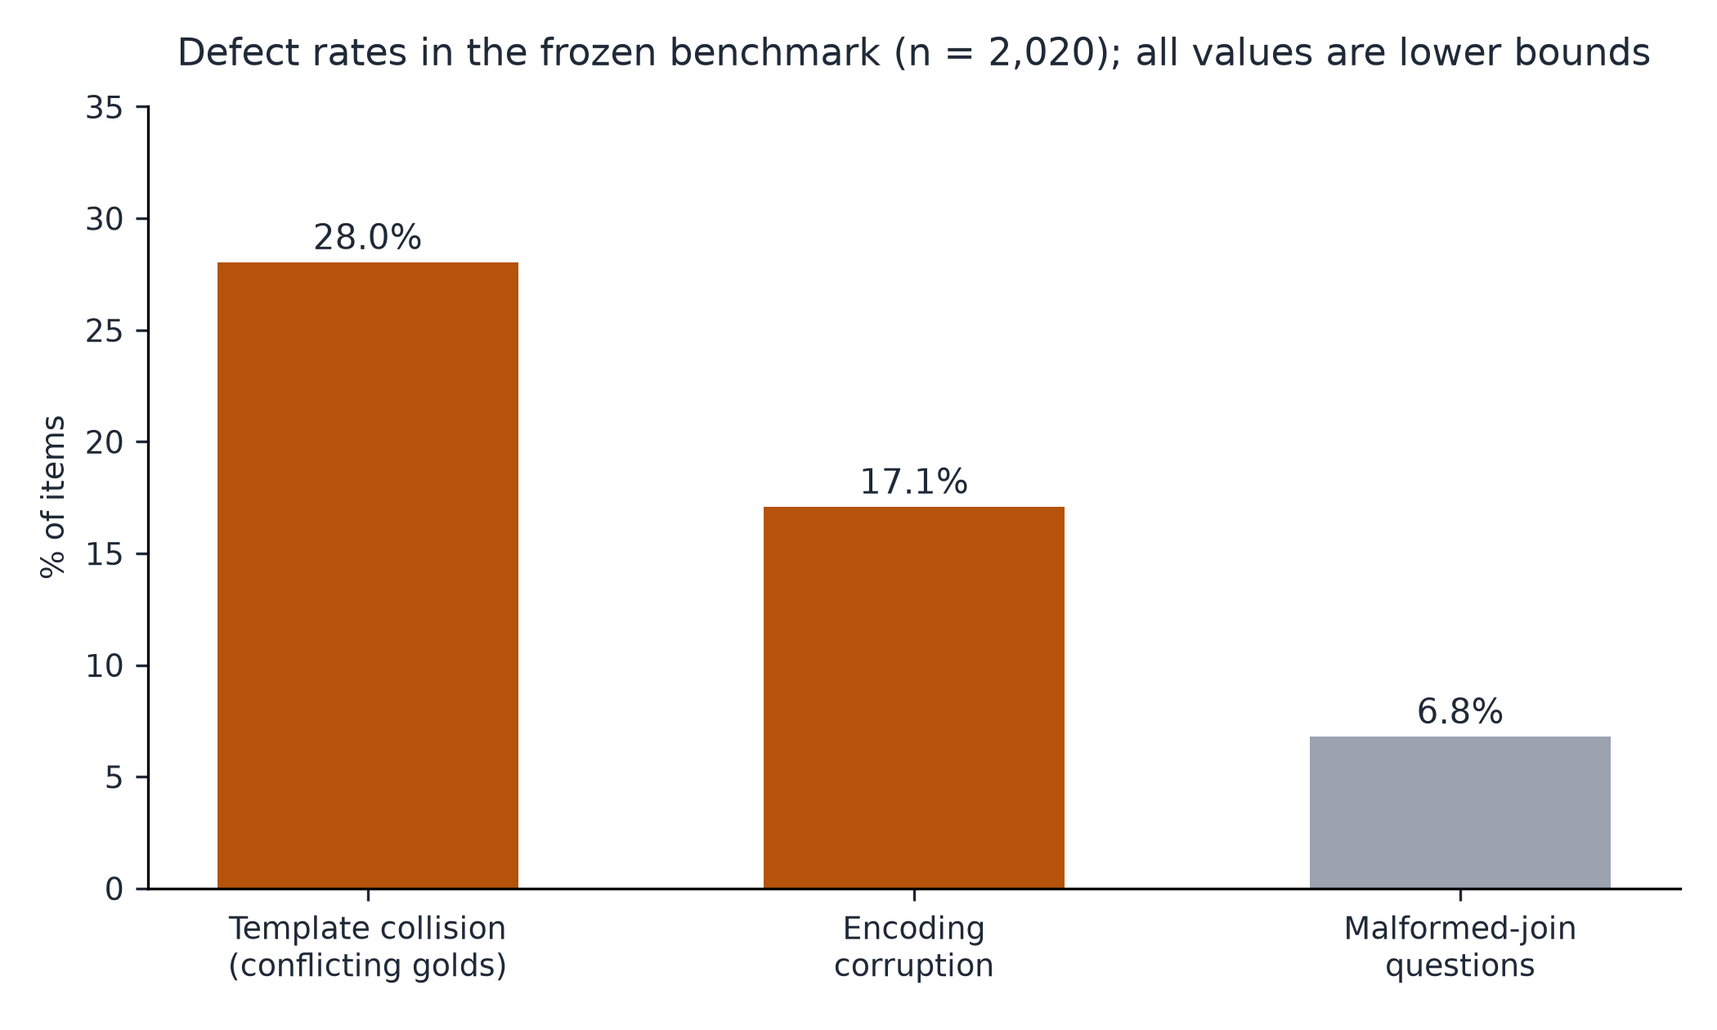
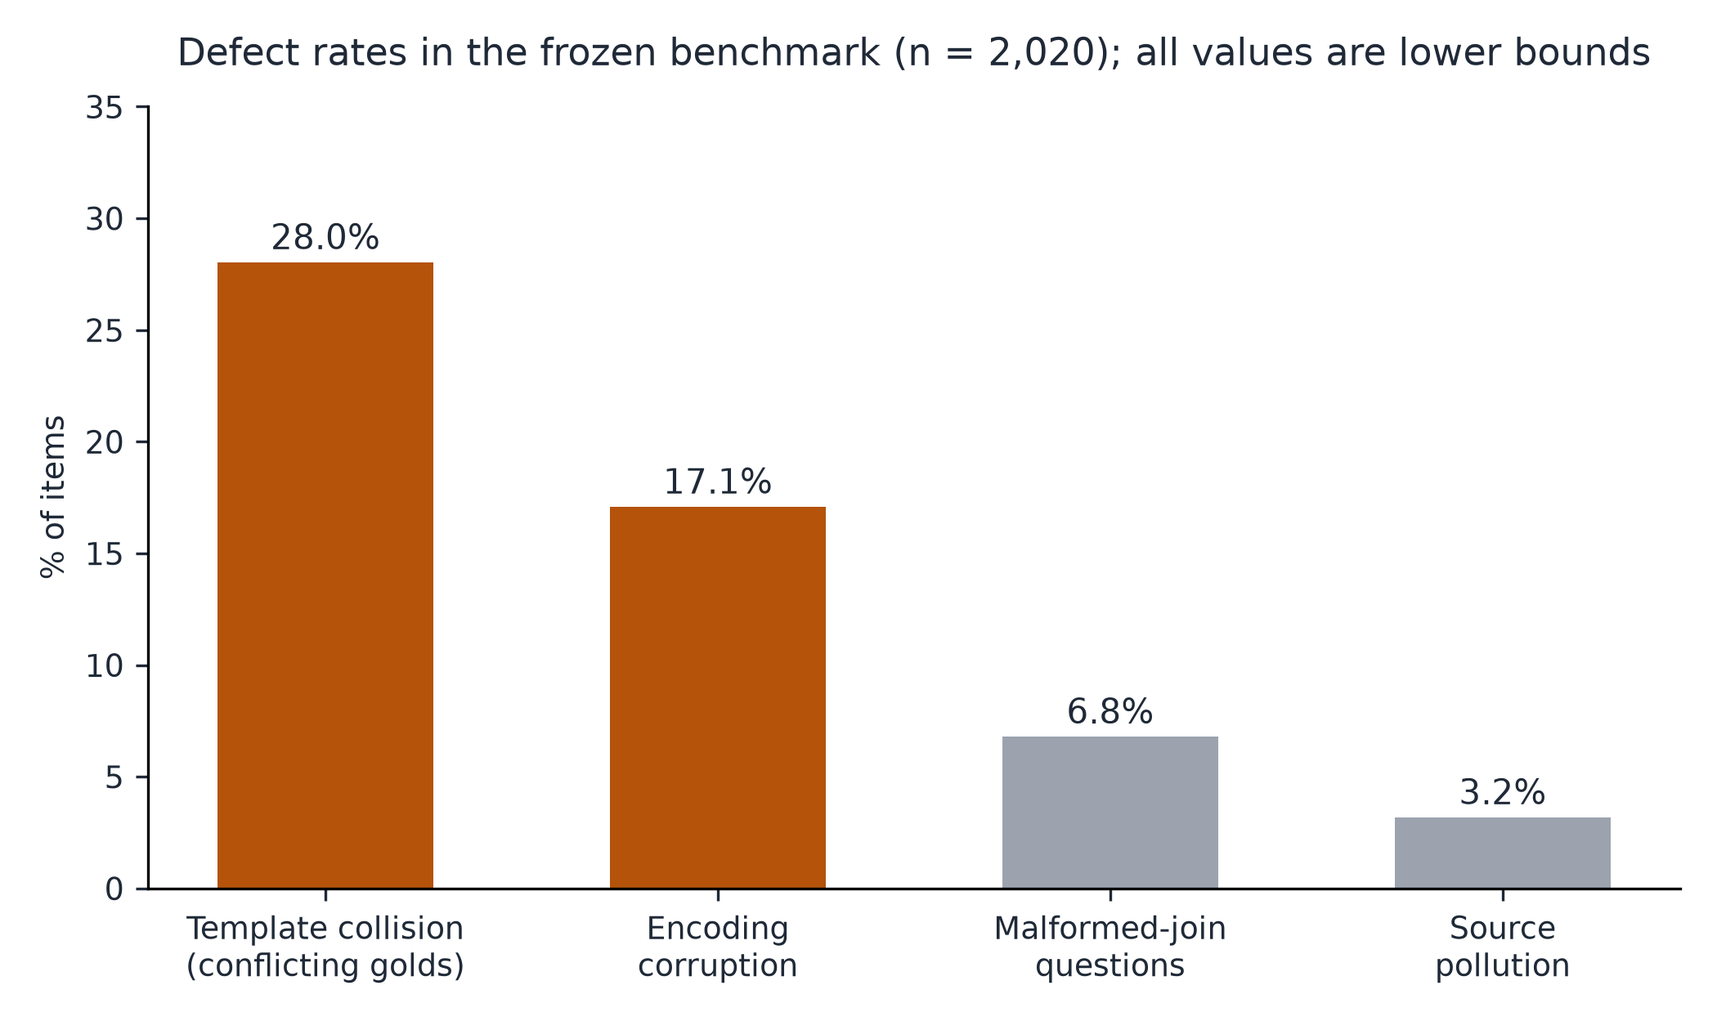
Cold read after the restatement: ten fixes, plus 13->7 ripple
Full straight-through read, owed because the last two rewrites each broke
something downstream that only a straight read caught. This one broke three.

Substantive:
- ABSTRACT CONTRADICTED ITSELF. It still called 566 items "unscoreable by
  construction" two sentences before reporting that three of four systems score
  HIGHER on the worst-collided group. The old claim survived the restatement in
  the one place a reader looks first.
- The self-referential paragraph called the caption defect "the relational
  defect of class 4" -- wrong twice over: class 4 is source pollution, not
  dangling references, and under the revised Conclusion class 4 is not
  relational. Rewritten around the accurate parallel: source validation
  (confirming cited artifacts resolve) is the check the benchmark's pipeline ran
  and passed, and the check nobody ran over the manuscript.
- "The audit is a single read-only script" was false once collision_effect.py
  existed, and Table 2's numbers come from it.

13 -> 7 ripple: DATA_QUALITY.md still reported 13 polluted documents. Now 7,
with the residue explained -- a broader pattern returns 17, most of the extra
hits are legitimate health content ("Halloween safety tips"), and the borderline
cases are agency index pages. The gap is reported as informative in itself:
automated auditing stops where the inclusion criterion stops being mechanically
decidable, and "consumer-facing health guidance" is not.
[…]

diff --git a/scripts/audit_data_quality.py b/scripts/audit_data_quality.py
@@ -19,6 +19,27 @@ PAIRS = Path("data/benchmark_v1/cross_language_pairs.json")
 # Signatures of UTF-8 text decoded as Latin-1 and re-encoded (double encoding).
 MOJIBAKE = re.compile(r"Ã|Â|â€|ã©|ã³|ã±|Ã¡|Ã©|Ã|Ã³|Ãº|Ã±|â¿|ã¿", re.I)
 
+# Administrative path patterns for source-pollution detection. Deliberately
+# strict: a looser pattern also matches legitimate health content whose title
+# happens to contain "contact", "help", or "terms".
+ADMIN = re.compile(
+    r"/(privacy|sitemap|contact|accessibility|disclaimer|policies|"
+    r"nondiscrimination|foia|vulnerability-disclosure|about-this-site)", re.I
+)
+
+
+def polluted(items):
+    """(administrative source URLs, number of items derived from them)."""
+    urls = sorted({
+        src["url"] for it in items for src in (it.get("source_documents") or [])
+        if ADMIN.search(src.get("url", ""))
+    })
+    n = sum(
+        1 for it in items
+        if any(ADMIN.search(s.get("url", "")) for s in (it.get("source_documents") or []))
+    )
+    return urls, n
+
 
 def load():
     return [json.loads(line) for line in open(ITEMS, encoding="utf-8")]
@@ -77,20 +98,12 @@ def main() -> None:
     print(f"   pairs with en_item_id/es_item_id swapped: {swapped} ({100*swapped/len(pairs):.0f}%)")
     print(f"   pairs with semantic_equivalence_verified == false: {unverified}")
 
-    ADMIN = re.compile(r"/(privacy|sitemap|contact|accessibility|disclaimer|policies|"
-                       r"nondiscrimination|foia|vulnerability-disclosure|about-this-site)", re.I)
-    polluted = sorted({
-        src["url"] for it in items for src in (it.get("source_documents") or [])
-        if ADMIN.search(src.get("url", ""))
-    })
-    poll_items = sum(
-        1 for it in items
-        if any(ADMIN.search(s.get("url", "")) for s in (it.get("source_documents") or []))
-    )
+    polluted_urls, poll_items = polluted(items)
+
     print("\n5. SOURCE POLLUTION")
-    print(f"   source documents matching administrative-path patterns: {len(polluted)}")
+    print(f"   source documents matching administrative-path patterns: {len(polluted_urls)}")
     print(f"   items derived from them: {poll_items}")
-    for u in polluted[:4]:
+    for u in polluted_urls[:4]:
         print(f"     {u[:88]}")
 
     def clean(it):

diff --git a/scripts/make_audit_figures.py b/scripts/make_audit_figures.py
@@ -17,7 +17,7 @@ import matplotlib
 matplotlib.use("Agg")
 import matplotlib.pyplot as plt  # noqa: E402
 
-from scripts.audit_data_quality import MOJIBAKE, item_texts, load  # noqa: E402
+from scripts.audit_data_quality import MOJIBAKE, item_texts, load, polluted  # noqa: E402
 
 OUT = Path("paper/figures")
 INK = "#1f2937"
@@ -55,6 +55,7 @@ def main() -> None:
     # --- shared computations (identical to the audit script) ---
     mojibake = [i for i in items if any(MOJIBAKE.search(t or "") for t in item_texts(i))]
     garbled = [i for i in items if i["question"].rstrip().endswith(":?") or "??" in i["question"]]
+    _, poll_items = polluted(items)
     byq = collections.defaultdict(list)
     for i in items:
         byq[i["question"].strip()].append(i)
@@ -84,10 +85,11 @@ def main() -> None:
     plt.close(fig)
 
     # --- Fig 2: defect rates by class ---
-    labels = ["Template collision\n(conflicting golds)", "Encoding\ncorruption", "Malformed-join\nquestions"]
-    vals = [100 * n_conf / n, 100 * len(mojibake) / n, 100 * len(garbled) / n]
+    labels = ["Template collision\n(conflicting golds)", "Encoding\ncorruption",
+              "Malformed-join\nquestions", "Source\npollution"]
+    vals = [100 * n_conf / n, 100 * len(mojibake) / n, 100 * len(garbled) / n, 100 * poll_items / n]
     fig, ax = plt.subplots(figsize=(7.0, 4.2))
-    bars = ax.bar(labels, vals, color=[ACCENT, ACCENT, MUTED], width=0.55)
+    bars = ax.bar(labels, vals, color=[ACCENT, ACCENT, MUTED, MUTED], width=0.55)
     for b, v in zip(bars, vals):
         ax.text(b.get_x() + b.get_width() / 2, v + 0.6, f"{v:.1f}%", ha="center", fontsize=10, color=INK)
     ax.set_ylim(0, max(vals) * 1.25)

diff --git a/paper/manuscript.md b/paper/manuscript.md
@@ -10,7 +10,7 @@
 
 ## Abstract
 
-Automated generation has made it inexpensive to build evaluation benchmarks at scale, but validation practice has not kept pace with generation practice. We report a post-freeze audit of US-HealthBench, a 2,020-item bilingual benchmark of consumer-facing U.S. public-health guidance that its authoring pipeline validated as 2,020/2,020 passing. That validation checked schema conformance and source existence. It never checked whether the items were semantically well-formed, and substantially they were not. We characterize four defect classes. Template collision: 212 question strings repeat across 664 items, and 174 of those repeats carry incompatible gold answers, leaving 566 items (28.0%) unscoreable by construction. Encoding corruption: 345 items (17.1%) overall, concentrated at 74.9% of the Spanish subset. Splice contamination: localized templates filled with fragments from another language or from page boilerplate. Source pollution: administrative pages entering a corpus filtered for health guidance. We argue these are not merely noise. Re-scoring under two matching rules shows that collision moves scores in a direction set by the scorer rather than by the defect: the shipped grader depresses scores across all 566 colliding items yet *raises* them for three of four systems on the most severely collided group, an inversion that disappears under strict matching. The instrument records its own failure as a property of the object measured, with a sign the artifact cannot reveal. We publish the frozen artifact, the generator, the passing validation report, and an audit script that reproduces every number reported here. The item set is released as provisional and unfit for scoring. The transferable contribution is the taxonomy and the audit procedure; the artifact is one worked case, and we bound our claims accordingly.
+Automated generation has made it inexpensive to build evaluation benchmarks at scale, but validation practice has not kept pace with generation practice. We report a post-freeze audit of US-HealthBench, a 2,020-item bilingual benchmark of consumer-facing U.S. public-health guidance that its authoring pipeline validated as 2,020/2,020 passing. That validation checked schema conformance and source existence. It never checked whether the items were semantically well-formed, and substantially they were not. We characterize four defect classes. Template collision: 212 question strings repeat across 664 items, and 174 of those repeats carry incompatible gold answers, placing 566 items (28.0%) in groups whose golds contradict one another. Encoding corruption: 345 items (17.1%) overall, concentrated at 74.9% of the Spanish subset. Splice contamination: localized templates filled with fragments from another language or from page boilerplate. Source pollution: administrative pages entering a corpus filtered for health guidance. We argue these are not merely noise. Re-scoring under two matching rules shows that collision moves scores in a direction set by the scorer rather than by the defect: the shipped grader depresses scores across all 566 colliding items yet *raises* them for three of four systems on the most severely collided group, an inversion that disappears under strict matching. The instrument records its own failure as a property of the object measured, with a sign the artifact cannot reveal. We publish the frozen artifact, the generator, the passing validation report, and an audit script that reproduces every number reported here. The item set is released as provisional and unfit for scoring. The transferable contribution is the taxonomy and the audit procedure; the artifact is one worked case, and we bound our claims accordingly.
 
 ---
 
@@ -39,7 +39,7 @@ Our contributions:
 1. **A defect taxonomy** for template-generated benchmarks — template collision, encoding corruption, splice contamination, source pollution — organized by the property that unites them operationally, that schema validation passes all four, with a detection procedure for each. The individual mechanisms are documented elsewhere; the assembly and the operational criterion are what we offer.
 2. **A measured account of directional instability**: template collision moves scores in a direction set by the scorer's matching rule rather than by the defect, demonstrated by re-scoring one artifact under two rules and observing the sign invert on the worst-affected group.
 3. **A worked case** with complete counts, in which the artifact, the generator that produced it, the validation that passed it, and the audit that found the defects are published together.
-4. **A reusable audit script** that reproduces every quantitative claim here from the frozen file.
+4. **Reusable audit code** — a defect-detection script and a two-scorer collision analysis — reproducing every number reported here from the frozen file.
 
 We audit our own artifact. This is unusual — benchmark defect reports are typically written by third parties — and it is what makes it possible to publish the generator and the frozen file alongside the audit, which a third-party report generally cannot do.
 
@@ -142,7 +142,7 @@ Four classes. For each: mechanism, detection, and generalization beyond the pres
 
 **Detection.** Scan all human-readable fields for double-encoding signatures; report the rate stratified by language, since the defect concentrates wherever non-ASCII characters are dense.
 
-**Generalization.** Corruption concentrates wherever non-ASCII characters are dense, so an aggregate rate over a language-imbalanced corpus understates the minority-language rate — here by a factor of four (17.1% aggregate against 74.9% of Spanish items), enough to leave the Spanish subset unusable while the aggregate looks tolerable. A benchmark reporting aggregate quality over a multilingual item set can therefore conceal near-total corruption of its minority-language portion. Aggregate reporting is the hazard, not the encoding bug alone.
+**Generalization.** Because corruption tracks non-ASCII density, an aggregate rate over a language-imbalanced corpus understates the minority-language rate — here by a factor of four (17.1% aggregate against 74.9% of Spanish items), enough to leave the Spanish subset unusable while the aggregate looks tolerable. A benchmark reporting aggregate quality over a multilingual item set can therefore conceal near-total corruption of its minority-language portion. Aggregate reporting is the hazard, not the encoding bug alone.
 
 ### Class 3: Splice contamination
 
@@ -164,9 +164,9 @@ Four classes. For each: mechanism, detection, and generalization beyond the pres
 
 ## Audit Method
 
-The audit is a single read-only script published with the artifact, which recomputes every count below directly from the frozen item file. We report the procedure so the numbers can be re-derived rather than trusted.
+The audit is two read-only scripts published with the artifact: `audit_data_quality.py`, which recomputes every defect count below directly from the frozen item file, and `collision_effect.py`, which re-scores the released outputs under two matching rules. We report the procedure so the numbers can be re-derived rather than trusted.
 
-Detection is deliberately conservative. The encoding scan matches a fixed set of double-encoding signatures and misses corruption outside that set. The malformed-question heuristic matches specific punctuation patterns and misses other splice forms; in particular it does not detect cross-language splices, which we identify by inspection and therefore report as a lower bound rather than a count. Template collision detection uses exact string matching after whitespace normalization and misses near-duplicates. **Every count below is a lower bound.**
+Detection is deliberately conservative. The encoding scan matches a fixed set of double-encoding signatures and misses corruption outside that set. The malformed-question heuristic matches specific punctuation patterns and misses other splice forms; in particular it does not detect cross-language splices, which we identify by inspection and therefore report as a lower bound rather than a count. Template collision detection uses exact string matching after whitespace normalization and misses near-duplicates. **Every defect count reported below is a lower bound.** The re-scoring results reported later are measurements rather than counts, and are not conservative in this sense.
 
 One methodological note bears on the audit's own reliability. While verifying this manuscript's reference list, an initial automated sweep against the arXiv API returned "not found" for every identifier queried, including one known to exist; the cause was that the `http://` endpoint returns an empty document where `https://` returns the record. Had that sweep been trusted, three incorrect references would have survived into this paper, and the failure would have presented as a clean result rather than an error. The hazard applies to any automated audit, this one included: a check that fails silently is indistinguishable from a check that passes.
 
@@ -174,7 +174,7 @@ One methodological note bears on the audit's own reliability. While verifying th
 
 ## Findings
 
-All counts are computed over the frozen 2,020-item file. Fig 2 summarizes the three machine-detectable classes as a proportion of the benchmark.
+All counts are computed over the frozen 2,020-item file. Fig 2 summarizes the four classes as a proportion of the benchmark, using each class's machine-detectable count.
 
 ### Template collision
 
@@ -204,7 +204,7 @@ Cross-language splices are identified by inspection and not counted exhaustively
 
 ### Source pollution
 
-Automated path-pattern detection identifies **7 source documents** as administrative — privacy policies, sitemaps, FOIA and accessibility notices — supplying **64 items**. Manual review of the full 296-URL source list finds further index and landing pages whose classification is a judgment call rather than a pattern match; we report only the machine-reproducible count. Derived items ask questions such as *"What are the key facts about contact us for help according to official U.S. health guidance?"*.
+Automated path-pattern detection identifies **7 source documents** as administrative — privacy policies, sitemaps, FOIA and accessibility notices — supplying **64 items**. A broader pattern returns 17 URLs, but most of the additional hits are legitimate health content whose titles merely contain a matched word (*"Halloween safety tips"*, *"what to know if your child wants contact lenses"*). Between the strict 7 and the loose 17 sit genuine borderline cases — agency index and landing pages carrying some content but never intended as guidance. We report only the 7 that the published script reproduces. The gap is itself informative: automated auditing terminates where the inclusion criterion stops being mechanically decidable, and a criterion phrased as "consumer-facing health guidance" is not mechanically decidable (S1 Text). Derived items ask questions such as *"What are the key facts about contact us for help according to official U.S. health guidance?"*.
 
 ### A fifth defect: unordered pair labels
 
@@ -320,14 +320,14 @@ The detection procedures above are cheap — the full audit runs in seconds over
 5. **Content-address derived identifiers.** Chunk identifiers in this artifact are positional, so any change to a source document silently renumbers subsequent references rather than failing visibly. Hashing chunk text would make a stale reference fail loudly.
 6. **Perform the human spot-check before freezing.** The protocol pre-registered a review of approximately 10% of items prior to freeze. It was not performed, and a 10% sample would very likely have surfaced classes 1–3.
 
-One instance of the same mechanism arose in preparing this manuscript. The rewrite that introduced
-the figures above wrote their captions before the figures existed, leaving a draft that described three
-files not present in the repository — a caption pointing at a nonexistent artifact is the relational
-defect of class 4 occurring in a document rather than a dataset. It was caught by comparing caption
-filenames against the filesystem, which is the document-level analogue of the checks recommended above.
-We record it because a defect class recurring inside a paper about that defect class is evidence the
-mechanism follows from how artifacts are assembled, not from inattention on the part of any particular
-generator.
+The same gap opened in preparing this manuscript. A rewrite introduced the figures above and wrote
+their captions before the figures existed, leaving a draft in which three captions referred to files
+absent from the repository. The parallel is exact and unflattering: source validation — confirming that
+every cited artifact resolves — is precisely the check the benchmark's own pipeline *did* run and pass,
+and precisely the check nobody had run over the manuscript. It was caught by comparing caption filenames
+against the filesystem, a two-line analogue of a check the artifact had all along. We record it because
+the recurrence supports the paper's argument: these gaps follow from how artifacts are assembled and
+revised, not from inattention peculiar to any one generator.
 
 ### Scope of these claims
 
@@ -345,7 +345,7 @@ The item set is published as **provisional and unfit for scoring** (S1 Text), to
 
 **Single artifact.** All rates come from one benchmark, as discussed above.
 
-**Lower-bound detection.** Every count is conservative by construction. Cross-language splices are reported by inspection rather than enumerated; near-duplicate questions are not detected, so template collision is undercounted.
+**Lower-bound detection.** Every defect count is conservative by construction. Cross-language splices are reported by inspection rather than enumerated; near-duplicate questions are not detected, so template collision is undercounted.
 
 **Self-audit.** The author of the audit is the author of the artifact. This grants access — generator, frozen file, and pipeline history are all available — but it is not independent scrutiny, and the audit's coverage is unverified by any third party. The audit script is published so others can extend or contradict it.
 
@@ -445,7 +445,7 @@ computed from the same predicates.
 
 **Fig 1. Benchmark composition as recorded** (`fig1_composition_as_recorded.png`)**.** Distribution of the 2,020 items by health topic (six most common of eleven), language, and task family, as recorded by the passing validation — the artifact as it described itself prior to audit.
 
-**Fig 2. Defect rates by class** (`fig2_defect_rates.png`)**.** Proportion of the 2,020-item benchmark affected by each machine-detectable defect class: template collision with conflicting gold answers (28.0%), encoding corruption (17.1%), malformed-join questions (6.8%). All bars are lower bounds; detection is conservative for every class.
+**Fig 2. Defect rates by class** (`fig2_defect_rates.png`)**.** Proportion of the 2,020-item benchmark affected by each defect class, using its machine-detectable count: template collision with conflicting gold answers (28.0%), encoding corruption (17.1%), malformed-join questions (6.8%), source pollution (3.2%). All bars are lower bounds; detection is conservative for every class, and source pollution is the most conservative of the four (see Findings).
 
 **Fig 3. Template collision distribution** (`fig3_template_collision.png`)**.** Counts of question strings by the number of items sharing them: 1,568 distinct strings across 2,020 items, 212 strings repeating, maximum 17 items on a single question. Shaded portion marks repeats carrying differing gold answers. Log vertical scale.
 

diff --git a/docs/DATA_QUALITY.md b/docs/DATA_QUALITY.md
@@ -81,12 +81,28 @@ frozen sidecar is unchanged.
 All 245 pairs additionally carry `semantic_equivalence_verified: false` — the
 equivalence check the pairs depend on was never performed.
 
-### 5. Source eligibility — 13 documents
+### 5. Source pollution — 7 documents machine-detected, more by inspection
 
-Thirteen source documents are administrative boilerplate rather than health
-guidance (privacy policies, sitemaps, contact pages), contrary to the corpus
-inclusion criteria in `docs/protocol.md`. Items derived from them ask questions
-like *"What are the key facts about contact us for help...?"*
+Path-pattern matching over the 296 referenced source URLs identifies **7
+administrative documents** — privacy policies, sitemaps, FOIA and accessibility
+notices — supplying **64 items**, contrary to the corpus inclusion criteria in
+`docs/protocol.md`. Derived items ask questions such as *"What are the key facts
+about contact us for help according to official U.S. health guidance?"*
+
+**Why the residue is a judgment call, and why that matters.** A broader pattern
+(adding `contact`, `help`, `terms`, `index`) returns 17 URLs, but most of the
+additional hits are legitimate health content whose titles merely contain those
+words — *"Halloween safety tips"*, *"what to know if your child wants contact
+lenses"*, *"hormone replacement therapies"*. Between the strict 7 and the loose
+17 sit genuine borderline cases: agency index and landing pages that carry some
+content but were never intended as guidance documents. Whether those count as
+pollution depends on a definition the corpus criteria never fixed.
+
+We report only the 7 because that is the figure this script reproduces. The gap
+is itself the finding: automated auditing terminates where the inclusion
+criterion stops being mechanically decidable, and a criterion phrased as
+"consumer-facing health guidance" is not mechanically decidable. This is the
+boundary of what any detection script in this family can do.
 
 ## What can be salvaged
 
